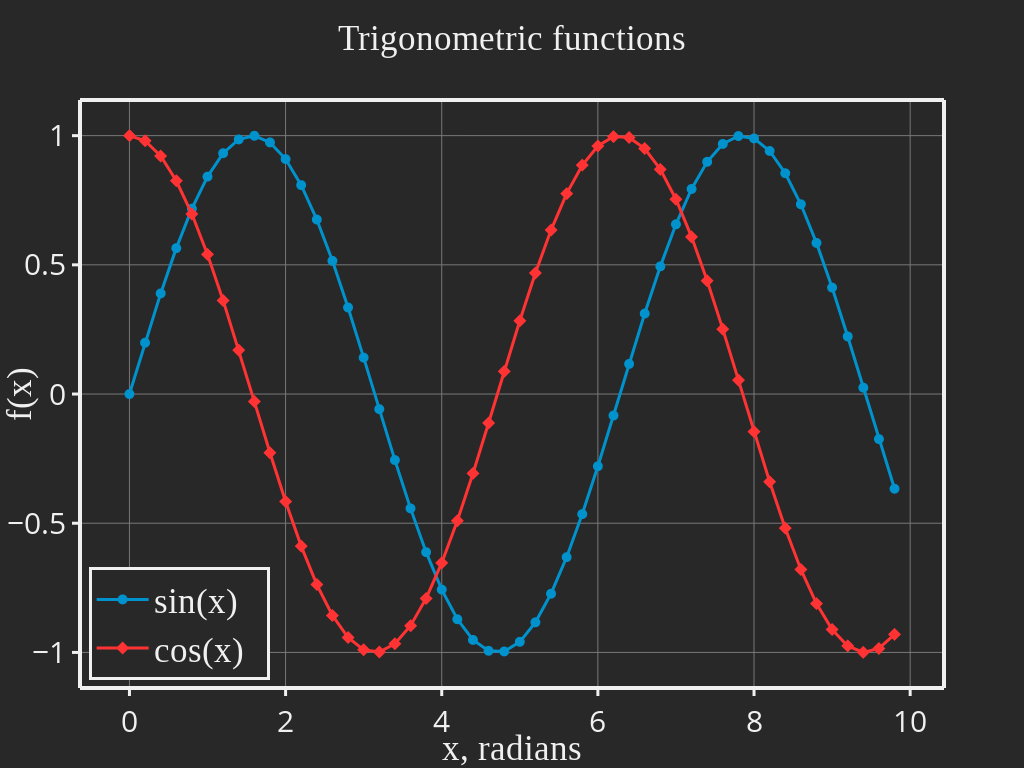
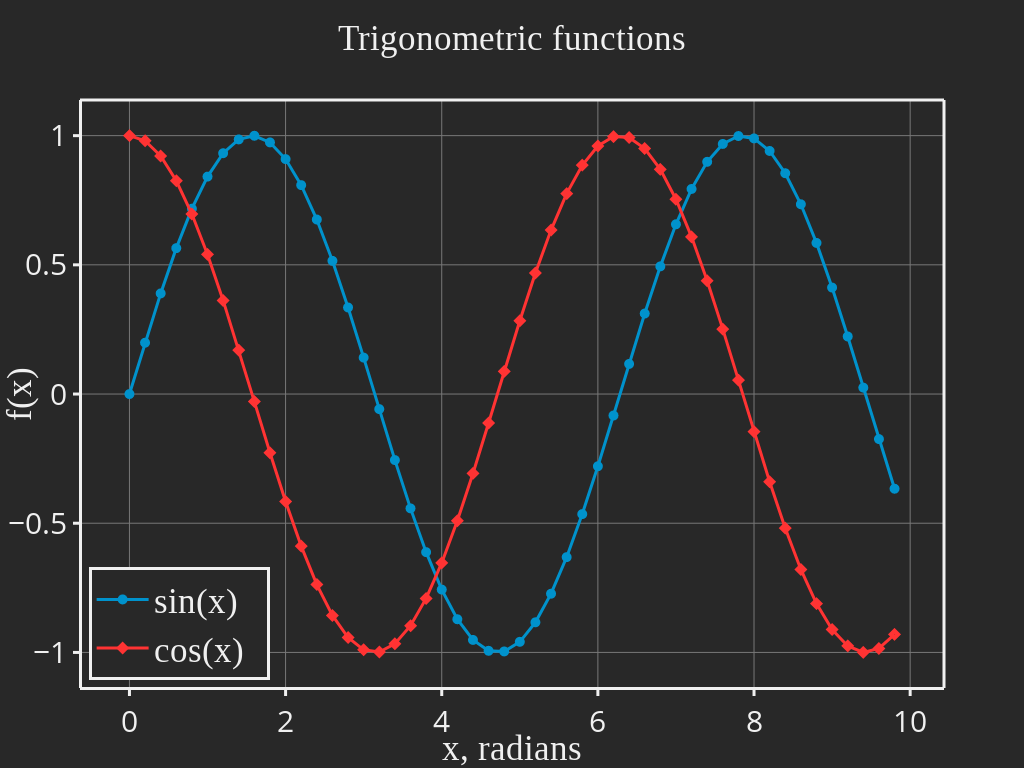
Changed thickness and line type

Changed region(s): [[0.0312, 0.6562, 0.0625, 0.6875], [0.0312, 0.5, 0.0625, 0.5312], [0.0312, 0.3438, 0.0625, 0.375]]

diff --git a/example3/line_and_scatter_plot.html b/example3/line_and_scatter_plot.html
@@ -18,7 +18,7 @@
     {
       "type": "scatter",
       "name": "sin(x)  ",
-      "mode": "lines+markers",
+      "mode": "lines",
       "x": [
         0.0,
         0.2,
@@ -123,19 +123,16 @@
         -0.17432678122297965,
         -0.3664791292519284
       ],
-      "marker": {
-        "symbol": "circle",
-        "size": 10
-      },
       "line": {
         "width": 3.0,
+        "dash": "solid",
         "color": "darkblue"
       }
     },
     {
       "type": "scatter",
       "name": "cos(x)  ",
-      "mode": "lines+markers",
+      "mode": "lines",
       "x": [
         0.0,
         0.2,
@@ -240,12 +237,9 @@
         -0.984687855794127,
         -0.9304262721047533
       ],
-      "marker": {
-        "symbol": "diamond-dot",
-        "size": 10
-      },
       "line": {
         "width": 3.0,
+        "dash": "dash",
         "color": "darkred"
       }
     }
@@ -298,7 +292,7 @@
       },
       "showline": true,
       "linecolor": "rgb(0, 0, 0)",
-      "linewidth": 4,
+      "linewidth": 3,
       "showgrid": true,
       "gridcolor": "rgb(120, 120, 120)",
       "zeroline": false,
@@ -321,7 +315,7 @@
       },
       "showline": true,
       "linecolor": "rgb(0, 0, 0)",
-      "linewidth": 4,
+      "linewidth": 3,
       "showgrid": true,
       "gridcolor": "rgb(120, 120, 120)",
       "zeroline": false,
@@ -338,7 +332,7 @@
         "y1": 1.0,
         "line": {
           "color": "rgb(0, 0, 0)",
-          "width": 4.0
+          "width": 3.0
         }
       },
       {
@@ -351,7 +345,7 @@
         "y1": 1.0,
         "line": {
           "color": "rgb(0, 0, 0)",
-          "width": 4.0
+          "width": 3.0
         }
       }
     ]

diff --git a/example2/line_and_scatter_plot.html b/example2/line_and_scatter_plot.html
@@ -298,7 +298,7 @@
       },
       "showline": true,
       "linecolor": "rgb(240, 240, 240)",
-      "linewidth": 4,
+      "linewidth": 3,
       "showgrid": true,
       "gridcolor": "rgb(120, 120, 120)",
       "zeroline": false,
@@ -321,7 +321,7 @@
       },
       "showline": true,
       "linecolor": "rgb(240, 240, 240)",
-      "linewidth": 4,
+      "linewidth": 3,
       "showgrid": true,
       "gridcolor": "rgb(120, 120, 120)",
       "zeroline": false,
@@ -338,7 +338,7 @@
         "y1": 1.0,
         "line": {
           "color": "rgb(240, 240, 240)",
-          "width": 4.0
+          "width": 3.0
         }
       },
       {
@@ -351,7 +351,7 @@
         "y1": 1.0,
         "line": {
           "color": "rgb(240, 240, 240)",
-          "width": 4.0
+          "width": 3.0
         }
       }
     ]

diff --git a/example3/src/main.rs b/example3/src/main.rs
@@ -1,6 +1,6 @@
 extern crate plotly;
 use plotly::color::{NamedColor, Rgb};
-use plotly::common::{Anchor, Font, Line, Marker, MarkerSymbol, Mode, Title};
+use plotly::common::{Anchor, Font, Line, Mode, Title, DashType};
 use plotly::layout::{Axis, Legend, Shape, ShapeLine, ShapeType};
 use plotly::{ImageFormat, Layout, Plot, Scatter};
 
@@ -11,10 +11,10 @@ fn line_and_scatter_plot(x: Vec<f64>, y1: Vec<f64>, y2: Vec<f64>) {
     let forecol = Rgb::new(0, 0, 0);
     let gridcol = Rgb::new(120, 120, 120);
     let transp = NamedColor::Transparent;
-    let thick: usize = 4;
+    let thick: usize = 3;
     let medium: usize = 3;
     let _thin: usize = 2;
-    let msize: usize = 10;
+    //let msize: usize = 10;
     let fsz_title: usize = 35;
     let fsz_legend: usize = 35;
     let fsz_ticks: usize = 30;
@@ -22,14 +22,16 @@ fn line_and_scatter_plot(x: Vec<f64>, y1: Vec<f64>, y2: Vec<f64>) {
 
     let trace1 = Scatter::new(x.clone(), y1)
         .name("sin(x)  ")
-        .mode(Mode::LinesMarkers)
-        .line(Line::new().color(linecol1).width(medium as f64))
-        .marker(Marker::new().size(msize).symbol(MarkerSymbol::Circle));
+        .mode(Mode::Lines)
+        .line(Line::new().color(linecol1).width(medium as f64).dash(DashType::Solid),
+        //.marker(Marker::new().size(msize).symbol(MarkerSymbol::Circle),
+    );
     let trace2 = Scatter::new(x, y2)
         .name("cos(x)  ")
-        .mode(Mode::LinesMarkers)
-        .line(Line::new().color(linecol2).width(medium as f64))
-        .marker(Marker::new().size(msize).symbol(MarkerSymbol::DiamondDot));
+        .mode(Mode::Lines)
+        .line(Line::new().color(linecol2).width(medium as f64).dash(DashType::Dash),
+        //.marker(Marker::new().size(msize).symbol(MarkerSymbol::DiamondDot),
+    );
 
     let title = Title::new("Trigonometric functions")
         .font(Font::new().size(fsz_title).family("Serif").color(forecol));

diff --git a/example2/src/main.rs b/example2/src/main.rs
@@ -11,7 +11,7 @@ fn line_and_scatter_plot(x: Vec<f64>, y1: Vec<f64>, y2: Vec<f64>) {
     let forecol = Rgb::new(240, 240, 240);
     let gridcol = Rgb::new(120, 120, 120);
     let transp = NamedColor::Transparent;
-    let thick: usize = 4;
+    let thick: usize = 3;
     let medium: usize = 3;
     let _thin: usize = 2;
     let msize: usize = 10;
